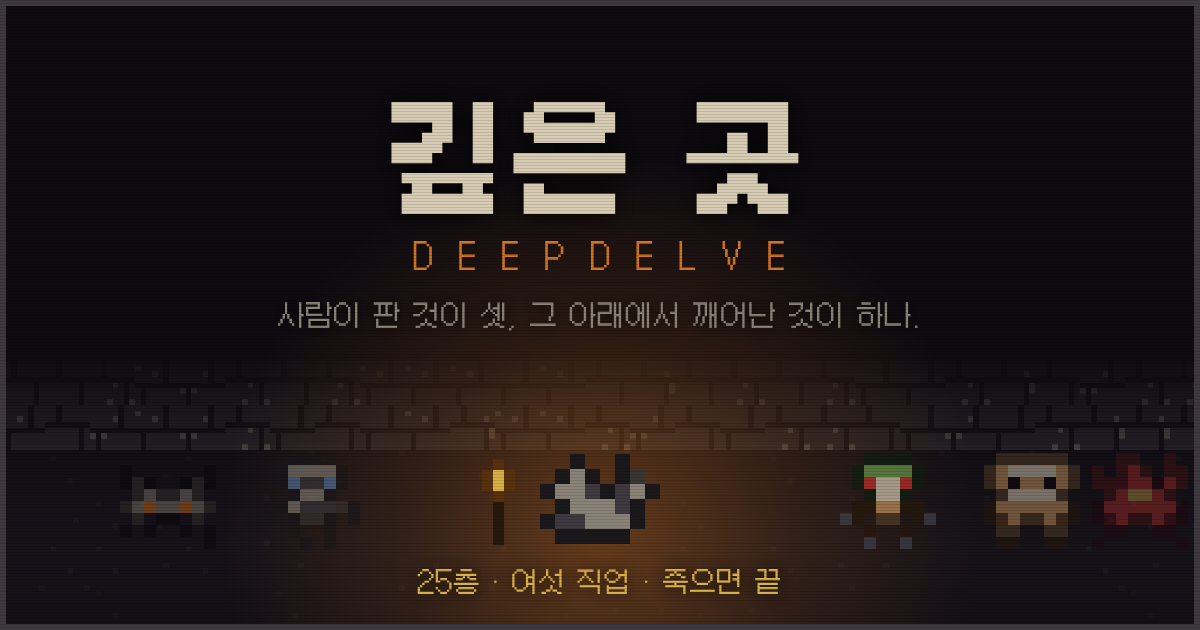
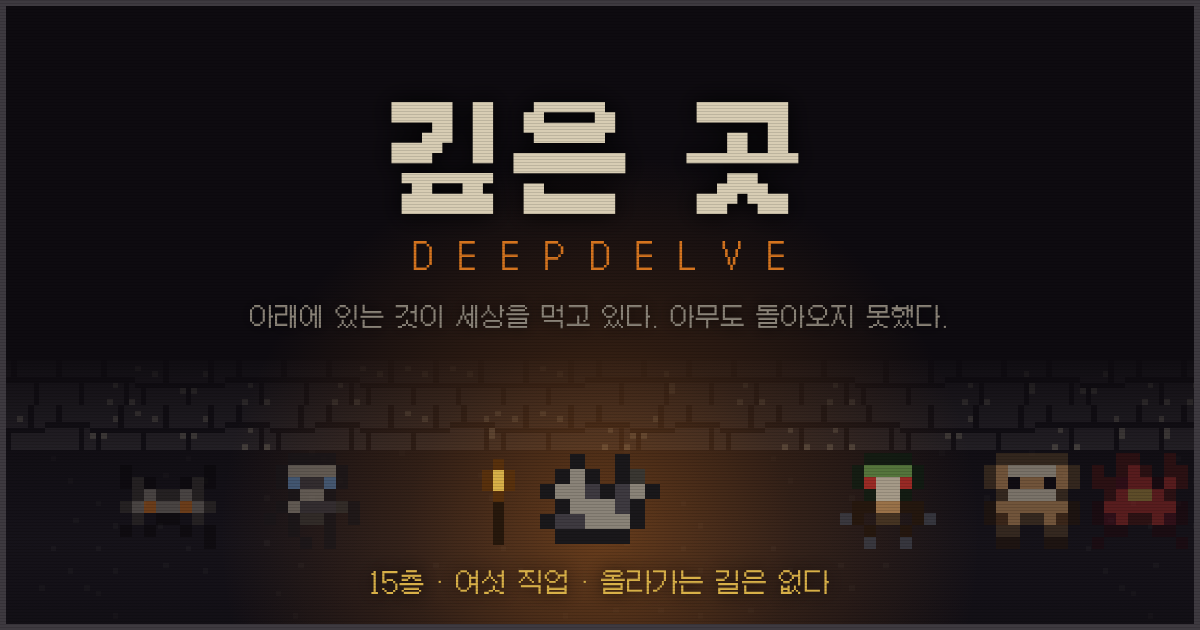
빚을 걷어내고 「마지막 희망」으로 다시 세웠다 — 사명은 있고, 환경이 가혹하다
■ 빚은 틀렸다
  팔려 온 사람의 이야기면 그건 비극이 아니라 그냥 불행이다. 사명감이
  있어야 이 가혹함이 무게를 갖는다. 세계관을 한 줄로 다시 세웠다:

    아래에 있는 것이 세상을 먹고 있다.
    그것을 죽이는 것 말고는 방법이 없다.
    아무도 돌아오지 못했다 — 한 사람도.

  그래서 당신은 「모험가」가 아니라 「이번 사람」이다. G.debt(닢)를
  걷어내고 G.sent(몇 번째로 내려간 사람인가)로 바꿨다. 이 숫자가
  기억(메타 진행)이 왜 남는지도 같이 설명한다 — 남는 것은 네 실력이
  아니라 앞서 죽은 자들이 벽에 긁어 놓은 것이다.

    갱구:  「갱구다. 아래에 있는 것이 세상을 먹고 있다.」
           「23번째다. 앞의 22명 중 아무도 돌아오지 않았다.」
           「배웅은 없다. 배웅할 사람들은 이미 이 일에 지쳤다.」
    첫 판:  「아무도 이 아래를 본 적이 없다. 네가 처음이다.」
           (숫자를 그냥 끼우면 「앞의 0은 돌아오지 않았다」가 나온다)
    죽음:  「도르래가 한 번 더 감긴다. 다음 사람이 준비되고 있다.」
    승리:  「불이 꺼졌다 / 15층에서. 처음으로, 누군가 그만큼 내려갔다.」
    끝 화면: 빚 대신 「내려간 순서 23번째」와 「구덩이가 내준 것 1575닢」.

■ 구역이 「밖」을 말한다 (data.js REGIONS.stake)
  층 이름과 분위기는 있었는데 **이유**가 없었다. 이제 구역이 바뀔
  때마다 두 가지가 같이 변한다 — 위의 소식은 나빠지고, 앞선 자들의
  흔적은 줄어든다.
    성채   「여기까지는 다들 왔다. 벽에 긁어 놓은 이름이 많다.」
    갱도   「이름이 드물어진다. 대신 물건이 늘어난다 — 놓고 간 것이
            아니라 떨어뜨린 것들이다.」
    성소   「여기부터는 소문으로만 안다. 여기를 보고 올라간 사람이 없다.」
    잿불   「위의 강이 마르기 시작한 것이 이 무렵부터라고 했다.」
    화로   「여기에는 이름이 없다. 아무도 이만큼 오지 못했다.」

■ 앞서 간 자 (events.js, 신규 둘)
  앞의 두 줄은 지역 문장이 말한다. 세 번째는 사건이 말해야 한다 —
  앞서 죽은 자를 실제로 만나야 「아무도 돌아오지 못했다」가 통계가
  아니라 시체가 된다.
  · 앞서 간 자 — 목에 걸린 패의 번호가 당신 것보다 작다. 배낭을
    열거나, 굳은 손가락을 펴거나(62%), 패를 떼어 묻어 준다.
  · 벽에 긁어 놓은 것 — 이름 여섯과 한 줄. 「여기서부터는 불을 끄지
    마라.」 읽고 새기거나, 일곱 번째 이름을 판다.
  셋 다 「아무것도 안 한다」를 남겨 둔다. 그게 있어야 가져가는 것이
  결정이 된다.

■ 몬스터 아홉 줄
  서른셋을 다 갈아엎지 않았다 — 대부분이 이미 이 세계의 문장이다.
  새 뼈대(앞서 내려간 자들 / 위가 마르고 있다)가 닿는 아홉 자리만
[…]

Changed region(s): [[0.2158, 0.4825, 0.8017, 0.5429], [0.3083, 0.9048, 0.7092, 0.9651]]

diff --git a/src/data.js b/src/data.js
@@ -151,21 +151,33 @@ export const SHACKLE_STAT = 1.22;
    Everything the player finds is one of those three layers
    leaking into the others — dwarf masonry with cinders in the
    mortar, a shrine with the wrong god's name filed off.       */
+/* `stake`는 이 구역에서 「위가 어떻게 되고 있는가」와 「앞서 내려간
+   자들이 어디까지 왔는가」를 한 줄로 말한다. 층 이름과 분위기는
+   이미 있었는데 **이유**가 없었다 — 왜 내려가는지, 안 내려가면
+   어떻게 되는지가 어디에도 안 적혀 있었다.
+
+   깊어질수록 두 가지가 같이 변한다: 위의 소식은 나빠지고, 앞선
+   자들의 흔적은 줄어든다. 마지막 구역에는 흔적이 없다. */
 export const REGIONS = [
   { from:1,  to:3,  n:'무너진 성채',
     t:'사람이 지은 마지막 층들이다. 계단은 넓고 문에는 아직 경첩이 남아 있다.',
-    line:'무너진 성채 — 사람이 지은 마지막 곳이다. 여기까지는 지도가 있었다.' },
+    line:'무너진 성채 — 사람이 지은 마지막 곳이다. 여기까지는 지도가 있었다.',
+    stake:'여기까지는 다들 왔다. 벽에 긁어 놓은 이름이 많다.' },
   { from:4,  to:7,  n:'드워프 갱도',
     t:'성채 아래를 파고 들어간 갱도. 다듬은 돌이 끝나고 파낸 흙이 시작된다.',
-    line:'드워프 갱도 — 다듬은 돌이 끝났다. 여기부터는 파낸 자국뿐이다.' },
+    line:'드워프 갱도 — 다듬은 돌이 끝났다. 여기부터는 파낸 자국뿐이다.',
+    stake:'이름이 드물어진다. 대신 물건이 늘어난다 — 놓고 간 것이 아니라 떨어뜨린 것들이다.' },
   { from:8,  to:10, n:'잊힌 성소',
     t:'갱도가 뚫고 들어간 것. 누구를 모시던 곳인지는 벽에서 긁어내져 있다.',
-    line:'잊힌 성소 — 벽마다 이름이 긁혀 있다. 무엇을 모셨는지 아무도 적어두지 않았다.' },
+    line:'잊힌 성소 — 벽마다 이름이 긁혀 있다. 무엇을 모셨는지 아무도 적어두지 않았다.',
+    stake:'여기부터는 소문으로만 안다. 여기를 보고 올라간 사람이 없다.' },
   { from:11, to:14, n:'잿불 아래',
     t:'돌이 따뜻하다. 이 아래에서 무언가가 아주 오래 타고 있다.',
-    line:'잿불 아래 — 돌이 따뜻하다. 발밑에서 무언가가 아직 타고 있다.' },
+    line:'잿불 아래 — 돌이 따뜻하다. 발밑에서 무언가가 아직 타고 있다.',
+    stake:'위의 강이 마르기 시작한 것이 이 무렵부터라고 했다. 아래에서 무언가가 마시고 있다.' },
   { from:15, to:15, n:'대군주의 화로',
     t:'타고 있는 것의 한가운데.',
+    stake:'여기에는 이름이 없다. 아무도 이만큼 오지 못했다.',
     line:'대군주의 화로 — 여기가 타고 있는 것의 한가운데다.' },
 ];
 
@@ -373,7 +385,7 @@ export const IMMUNE = {
    regen: hp regained per turn                                */
 export const MONSTERS = [
   { spr:'rat',     n:'커다란 쥐',        d:1,  rar:10, hp:5,   atk:3,  ac:1,  xp:2,   ai:'hunt',    grp:[1,3],
-    lore:'성채가 사람 것이던 시절부터 여기 있었다. 사람이 먼저 나갔을 뿐이다.' },
+    lore:'성채가 사람 것이던 시절부터 여기 있었다. 요즘은 내려오는 사람이 많아 잘 먹는다.' },
   { spr:'bat',     n:'과일 박쥐',        d:1,  rar:9,  hp:6,   atk:3,  ac:3,  xp:3,   ai:'erratic', spd:1.7,
     lore:'과일은 오래전에 없어졌는데 이름만 남았다. 지금은 다른 걸 먹는다.' },
   { spr:'mold',    n:'회색 곰팡이',      d:1,  rar:5,  hp:14,  atk:5,  ac:1,  xp:5,   ai:'still',   on:'poison',
@@ -398,17 +410,17 @@ export const MONSTERS = [
   { spr:'kobold',  n:'코볼드 투석꾼',    d:2,  rar:7,  hp:9,   atk:5,  ac:3,  xp:11,  ai:'ranged',  rng:5, spd:0.65, grp:[1,2], door:'open',
     lore:'던질 것이 떨어지면 자기 이빨을 뽑아 던진다는 말이 있다. 확인한 사람은 없다.' },
   { spr:'dog',     n:'들개',             d:2,  rar:9,  hp:11,  atk:6,  ac:3,  xp:9,   ai:'coward',  spd:1.3, grp:[2,3],
-    lore:'누군가 데리고 내려왔던 개들이다. 데리고 올라간 사람은 없었다.' },
+    lore:'누군가 데리고 내려왔던 개들이다. 개는 남고 사람은 남지 않았다.' },
   { spr:'jelly',   n:'푸른 젤리',        d:3,  rar:5,  hp:34,  atk:8,  ac:1,  xp:20,  ai:'still',   on:'slow',
-    lore:'다 녹인 뒤에도 자기가 무엇을 녹였는지 안쪽에 남긴다. 반지가 떠 있는 것을 본 적 있다.' },
+    lore:'다 녹인 뒤에도 자기가 무엇을 녹였는지 안쪽에 남긴다. 번호가 찍힌 패가 떠 있는 것을 본 적 있다.' },
   { spr:'spider',  n:'동굴 거미',        d:3,  rar:8,  hp:16,  atk:8,  ac:5,  xp:16,  ai:'hunt',    spd:1.3, on:'poison', web:true,
     lore:'줄을 치는 것이 아니라 길을 짜는 것에 가깝다. 자기 길은 걸어서 지난다.' },
   { spr:'orc',     n:'오크 병사',        d:3,  rar:11, hp:24,  atk:10, ac:7,  xp:24,  ai:'hunt',    grp:[2,4], door:'open',
     lore:'갱도를 파던 드워프를 밀어낸 쪽. 그래서 곡괭이 자국이 남은 갑옷을 입는다.' },
   { spr:'orc',     n:'오크 궁수',        d:4,  rar:7,  hp:20,  atk:9,  ac:6,  xp:28,  ai:'ranged',  rng:6, spd:0.7, grp:[1,2], door:'open',
-    lore:'활보다 사거리를 잘 안다. 붙으면 물러나며 쏘는 법을 누가 가르쳤다.' },
+    lore:'활보다 사거리를 잘 안다. 물러나며 쏘는 법은 내려온 것들에게서 배웠을 것이다.' },
   { spr:'orc',     n:'검은 오크',        d:5,  rar:9,  hp:36,  atk:13, ac:9,  xp:42,  ai:'hunt',    grp:[2,4], door:'open',
-    lore:'검게 그을린 것이 아니라 원래 그렇다. 아래쪽에서 올라온 무리다.' },
+    lore:'검게 그을린 것이 아니라 원래 그렇다. 아래쪽에서 올라온 무리이고, 아래쪽은 계속 올려보낸다.' },
   { spr:'dog',     n:'늑대',             d:5,  rar:8,  hp:30,  atk:12, ac:6,  xp:38,  ai:'hunt',    spd:1.35, grp:[2,4],
     lore:'갱도의 소리를 듣고 위에서 내려왔다. 여기서는 무리를 이루는 편이 오래 산다.' },
   /* The lore promised a wind-up for four months and the field was
@@ -451,13 +463,13 @@ export const MONSTERS = [
      deeper floor should ask a different question, not the same
      question with bigger numbers. */
   { spr:'ashhound', n:'재의 사냥개',      d:10, rar:8,  hp:62,  atk:22, ac:15, xp:140, ai:'hunt',    spd:1.45, grp:[3,5], door:'open',
-    lore:'화로 둘레를 도는 것들. 한 마리를 보았다면 이미 세 마리가 뒤에 있다.' },
+    lore:'화로 둘레를 도는 것들. 저 불이 커질수록 수가 는다 — 위에서 강이 마르는 것과 같은 속도로.' },
   { spr:'warden',   n:'화로지기',         d:10, rar:7,  hp:130, atk:15, ac:21, xp:240, ai:'hunt',    spd:0.6,  door:'smash', heavy:true,
-    lore:'불을 지키라는 명령만 남고 명령한 자는 없다. 팔을 당기는 데 한 박자가 걸린다.' },
+    lore:'불을 지키라는 명령만 남고 명령한 자는 없다. 그 불이 지금 세상을 먹고 있다.' },
   { spr:'ashen',    n:'잿물 먹는 것',     d:12, rar:6,  hp:110, atk:27, ac:16, xp:300, ai:'hunt',    spd:0.9,  drain:0.45, on:'slow',
-    lore:'상처를 삼켜서 제 것으로 만든다. 오래 붙어 있을수록 저쪽이 낫는다.' },
+    lore:'상처를 삼켜서 제 것으로 만든다. 이 아래의 모든 것이 같은 방식으로 산다.' },
   { spr:'thief',    n:'잿불 도굴꾼',      d:12, rar:5,  hp:70,  atk:20, ac:19, xp:260, ai:'coward',  spd:1.5,  thief:true, door:'open',
-    lore:'아래에서 무엇을 파내는지는 아무도 모른다. 자루가 늘 무겁다는 것만 안다.' },
+    lore:'아래에서 무엇을 파내는지는 아무도 모른다. 자루에서 이따금 사람 것이 나온다.' },
   { spr:'emberpriest', n:'화로의 사제',   d:13, rar:5,  hp:105, atk:24, ac:18, xp:400, ai:'hunt',    spd:0.85, casts:['zone','wave'], cool:4, door:'open',
     lore:'화로에 무엇을 바쳤는지 벽에 적혀 있었으나 그 벽도 탔다. 바닥에 먼저 그린다.' },
   { spr:'ashheap',  n:'잿더미 속의 것',   d:15, rar:4,  hp:160, atk:40, ac:26, xp:560, ai:'still',   on:'fear',
@@ -577,8 +589,12 @@ export const NAMED = [
 
    `set` replaces a field outright, `add` adds to it. Both are
    announced before they land. */
+/* 아래에 있는 것. 이것이 세상을 먹고 있고, 이것을 죽이는 것 말고는
+   방법이 없다 — 그래서 사람들은 계속 내려보낸다. 열다섯 층 내내
+   따뜻해지던 돌의 출처이고, 위의 강이 마른 이유다. */
 export const BOSS = {
   spr:'balemperor', n:'잿불의 대군주', hp:780, atk:46, ac:30, xp:5000,
+  lore:'불을 피우는 것이 아니라 먹는다. 위의 강이 마른 것도, 이 돌이 따뜻한 것도 같은 이유다.',
   ai:'hunt', spd:1.15, on:'fear', door:'smash', regen:4, boss:true, heavy:true,
   casts:['beam', 'wave', 'zone', 'quake'], cool:3,
   phases: [

diff --git a/src/events.js b/src/events.js
@@ -39,6 +39,49 @@
 const pct = (api, f) => Math.max(1, Math.round(api.p.maxhp * f));
 
 export const EVENTS = [
+  /* ── 앞서 내려간 자들 ─────────────────────────────────────
+     이 게임의 세계관은 한 줄이다: 아래에 있는 것이 세상을 먹고
+     있고, 그것을 죽이는 것 말고는 방법이 없고, 아무도 돌아오지
+     못했다. 앞의 둘은 지역 문장이 말한다. 세 번째는 **여기서**
+     말해야 한다 — 앞서 죽은 자를 실제로 만나야 「아무도 돌아오지
+     못했다」가 통계가 아니라 시체가 된다.
+
+     셋 다 같은 것을 준다: 앞 사람이 들고 있던 것. 다른 것은
+     그것을 가져가는 값이다. 그리고 셋 다 「그냥 묻어 준다」를
+     남겨 둔다 — 아무것도 안 하는 선택지가 있어야 가져가는 것이
+     결정이 된다. */
+  {
+    id:'thelast', n:'앞서 간 자', w:9,
+    t:'벽에 기대 앉은 채로 말라 있다. 무릎 위에 배낭이 그대로 있고, 손은 아직 그것을 쥐고 있다. 목에 걸린 패에 번호가 찍혀 있다 — 당신 것보다 작은 숫자다.',
+    opts:[
+      { n:'배낭을 연다', t:'그가 여기까지 들고 온 것을 가져간다.',
+        run: api => {
+          api.mats({ scrap: 4 + api.rnd(6), dust: 2 + api.rnd(3) });
+          api.gold(40 + api.rnd(60));
+          api.say('쓸 만한 것이 남아 있었다. 그는 여기까지 잘 왔다.', 'good');
+        } },
+      { n:'손에 쥔 것을 편다', t:'끝까지 놓지 않은 것이다. 굳은 손가락을 펴야 한다.',
+        odds:0.62, risk:'뼈가 부러지는 소리에 층이 깨어난다',
+        run: api => { api.item(6); api.say('그가 마지막까지 쥐고 있던 것이다.', 'level'); },
+        fail: api => { api.rouse(11); api.say('마른 뼈가 부러졌다. 그 소리가 멀리 갔다.', 'bad'); } },
+      { n:'패를 떼어 묻어 준다', t:'가져갈 것은 없다. 대신 다음이 덜 무섭다.',
+        run: api => { api.heal(pct(api, 0.10)); api.say('번호를 주머니에 넣었다. 위로 가져갈 사람이 있을지도 모른다.', 'good'); } },
+    ],
+  },
+  {
+    id:'scratch', n:'벽에 긁어 놓은 것', w:8,
+    t:'돌에 손톱으로 판 글씨다. 이름 여섯과, 그 아래 한 줄. 「여기서부터는 불을 끄지 마라.」 마지막 이름 옆에는 아무것도 없다.',
+    opts:[
+      { n:'읽고 새긴다', t:'앞 사람들이 알아낸 것을 믿는다.',
+        run: api => { api.oil(260); api.say('기름통을 다시 채웠다. 그들이 옳았기를.', 'good'); } },
+      { n:'내 이름도 새긴다', t:'다음 사람이 여기까지 왔다는 것을 알게 된다.',
+        run: api => {
+          api.xp(30 + api.depth * 10);
+          api.say('일곱 번째 이름을 팠다. 손톱이 갈라졌지만 팔 만했다.', 'level');
+        } },
+      { n:'지나친다', t:'읽을 시간이 없다.', run: api => api.say('글씨를 등지고 걸었다.') },
+    ],
+  },
   /* ── open to anyone ─────────────────────────────────────── */
   {
     id:'well', n:'말라붙은 우물', w:10,
@@ -204,7 +247,7 @@ export const EVENTS = [
         run: api => { api.heal(pct(api, 0.18)); api.spendClock(20);
                       api.say('독한 술이었다. 정신을 차리니 한참 지나 있었다.', 'good'); } },
       { n:'털어버린다', t:'금화를 빼앗는다. 상인들이 알게 된다.',
-        run: api => { const g = 90 + api.rnd(140); api.p.gold += api.gold(g); api.infamy(0.35); api.say(`${g}닢을 빼앗았다. 소문이 빠를 것이다.`, 'warn'); } },
+        run: api => { const g = 90 + api.rnd(140); api.gold(g); api.infamy(0.35); api.say(`${g}닢을 빼앗았다. 소문이 빠를 것이다.`, 'warn'); } },
     ],
   },
   {
@@ -226,7 +269,7 @@ export const EVENTS = [
       { n:'열어 본다', t:'물약 셋. 그중 하나는 나쁜 것이다.',
         run: api => { api.givePotion(3, true); api.say('세 병이 굴러 나왔다.', 'good'); } },
       { n:'상인에게 팔 셈으로 챙긴다', t:'금화. 무거워서 이 층 시계가 25턴 줄어든다.',
-        run: api => { const g = 120 + api.rnd(120); api.p.gold += api.gold(g); api.spendClock(25);
+        run: api => { const g = 120 + api.rnd(120); api.gold(g); api.spendClock(25);
                       api.say(`무겁지만 값은 됐다. ${g}닢.`, 'good'); } },
     ],
   },
@@ -274,7 +317,7 @@ export const EVENTS = [
       { n:'표식을 따라간다', t:'이 층 상자 전부의 위치를 알고, 내용이 한 번 더 늘어난다.',
         run: api => { api.revealChests(true); api.say('벽마다 표식이 이어져 있었다.', 'level'); } },
       { n:'표식을 지운다', t:'금화. 다음 층 상자가 두 배.',
-        run: api => { api.p.gold += api.gold(150 + api.rnd(150)); api.nextFloor({ chests: 2 }); api.say('지운 자리에 당신 매듭을 남겼다.', 'good'); } },
+        run: api => { api.gold(150 + api.rnd(150)); api.nextFloor({ chests: 2 }); api.say('지운 자리에 당신 매듭을 남겼다.', 'good'); } },
     ],
   },
   {

diff --git a/src/ui.js b/src/ui.js
@@ -3714,15 +3714,15 @@ function renderEnd() {
   }
   const m = Meta.read();
 
-  $('end-title').textContent = e.win ? '대군주가 무너졌다' : '당신은 죽었다';
+  $('end-title').textContent = e.win ? '불이 꺼졌다' : '당신은 죽었다';
   /* 죽음이 끝이 아니라 「다음 사람」이라는 것을, 사망 화면이 말한다.
      메타 진행(기억)이 왜 남는지가 이 한 줄로 설명된다 — 남는 것은
      네 실력이 아니라 네 시체를 본 다음 놈의 학습이다. */
   const nextLine = el('p', 'note',
-    e.win ? '쇠가 벗겨졌다. 그런 일은 없었던 것으로 되어 있다.'
-          : '도르래가 한 번 더 감긴다. 다음 사람이 내려간다.');
+    e.win ? '아래가 조용하다. 처음으로, 아무도 세지 않아도 되는 밤이다.'
+          : '도르래가 한 번 더 감긴다. 다음 사람이 준비되고 있다.');
   $('end-sub').textContent = e.win
-    ? `${MAX_DEPTH}층에서, 등불을 든 채로.`
+    ? `${MAX_DEPTH}층에서. 처음으로, 누군가 그만큼 내려갔다.`
     : `${s.depth === 0 ? '갱구' : s.depth + '층'}에서 ${e.by}에게.`;
 
   const box = $('end-body');
@@ -3749,13 +3749,13 @@ function renderEnd() {
   /* 빚. 금화를 점수가 아니라 「얼마나 갚았나」로 다시 읽는 줄이다 —
      이 한 줄이 있으면 판 내내 주운 동전에 이유가 생긴다. 아무도
      다 갚지 못했고, 그것도 세계관의 일부다. */
-  if (s.debt) {
-    /* **번** 금화로 센다. 가진 것으로 세면 상점과 모루에 쓰는 것이
-       점수를 깎는 일이 되어, 이야기 한 줄이 경제를 뒤집는다. */
-    const paid = Math.min(100, Math.floor((s.earned || 0) * 100 / s.debt));
-    line('빚', `${s.earned || 0} / ${s.debt}닢 — ${paid}% 갚았다`,
-         paid >= 100 ? 'W' : paid >= 25 ? 'y' : 'R');
-  }
+  /* 몇 번째였나. 「모험가 하나가 죽었다」와 「스물세 번째가 죽었다」는
+     같은 사건의 다른 무게다. 그리고 이 줄이 기억(메타 진행)이 왜
+     남는지를 설명한다 — 남는 것은 실력이 아니라 앞선 자들의 흔적이다. */
+  if (s.sent) line('내려간 순서', `${s.sent}번째`, s.sent >= 20 ? 'R' : '');
+  /* 벌어들인 금화는 「구덩이가 얼마를 내주었나」다. 가진 금화로 세면
+     상점과 모루에 쓰는 것이 점수를 깎는 일이 되어버린다. */
+  if (s.earned) line('구덩이가 내준 것', `${s.earned}닢`, 'y');
   if (s.forged) line('벼려 올린 +', `${s.forged}단계`, 'y');
   if (s.broke) line('불에 잃은 장비', `${s.broke}점`, 'R');
   if (s.perfects) line('절단', `${s.perfects}번`, 'W');

diff --git a/index.html b/index.html
@@ -12,12 +12,12 @@
      한다 — 크롤러는 페이지의 위치를 모르는 채로 이 값만 읽는다.
      그림은 sim/og.mjs가 게임의 진짜 스프라이트·팔레트·폰트로 굽는다
      (`node sim/og.mjs`). 도트를 다시 손보면 다시 구우면 된다. -->
-<meta name="description" content="도트와 텍스트로 만든 25층짜리 던전 로그라이크. 횃불이 시계이고, 물러서는 것이 수다. 여섯 직업, 죽으면 끝.">
+<meta name="description" content="아래에 있는 것이 세상을 먹고 있다. 그것을 죽이는 것 말고는 방법이 없고, 아무도 돌아오지 못했다. 도트와 텍스트로 만든 15층짜리 던전 로그라이크 — 횃불이 시계이고, 올라가는 길은 없다.">
 <meta property="og:type" content="website">
 <meta property="og:site_name" content="깊은 곳 · Deepdelve">
 <meta property="og:locale" content="ko_KR">
 <meta property="og:title" content="깊은 곳 · Deepdelve">
-<meta property="og:description" content="사람이 판 것이 셋, 그 아래에서 깨어난 것이 하나. 25층 · 여섯 직업 · 죽으면 끝.">
+<meta property="og:description" content="아래에 있는 것이 세상을 먹고 있다. 아무도 돌아오지 못했다. 15층 · 여섯 직업 · 올라가는 길은 없다.">
 <meta property="og:url" content="https://graviton94.github.io/ROGUELIKE/">
 <meta property="og:image" content="https://graviton94.github.io/ROGUELIKE/og.png">
 <meta property="og:image:width" content="1200">
@@ -25,7 +25,7 @@
 <meta property="og:image:alt" content="어둠 속 횃불 하나. 그 빛의 가장자리에 짐승들이 서 있다.">
 <meta name="twitter:card" content="summary_large_image">
 <meta name="twitter:title" content="깊은 곳 · Deepdelve">
-<meta name="twitter:description" content="사람이 판 것이 셋, 그 아래에서 깨어난 것이 하나. 25층 · 여섯 직업 · 죽으면 끝.">
+<meta name="twitter:description" content="아래에 있는 것이 세상을 먹고 있다. 아무도 돌아오지 못했다. 15층 · 여섯 직업 · 올라가는 길은 없다.">
 <meta name="twitter:image" content="https://graviton94.github.io/ROGUELIKE/og.png">
 
 <link rel="manifest" href="manifest.webmanifest">
@@ -47,7 +47,7 @@
   <div class="titleface">
     <h1 class="gamename">깊은 곳</h1>
     <p class="gamesub">D E E P D E L V E</p>
-    <p class="tag">사람이 판 것이 셋, 그 아래에서 깨어난 것이 하나.</p>
+    <p class="tag">아래에 있는 것이 세상을 먹고 있다. 아무도 돌아오지 못했다.</p>
   </div>
   <div class="titleacts">
     <button class="big" id="btn-load" hidden>이어하기</button>
